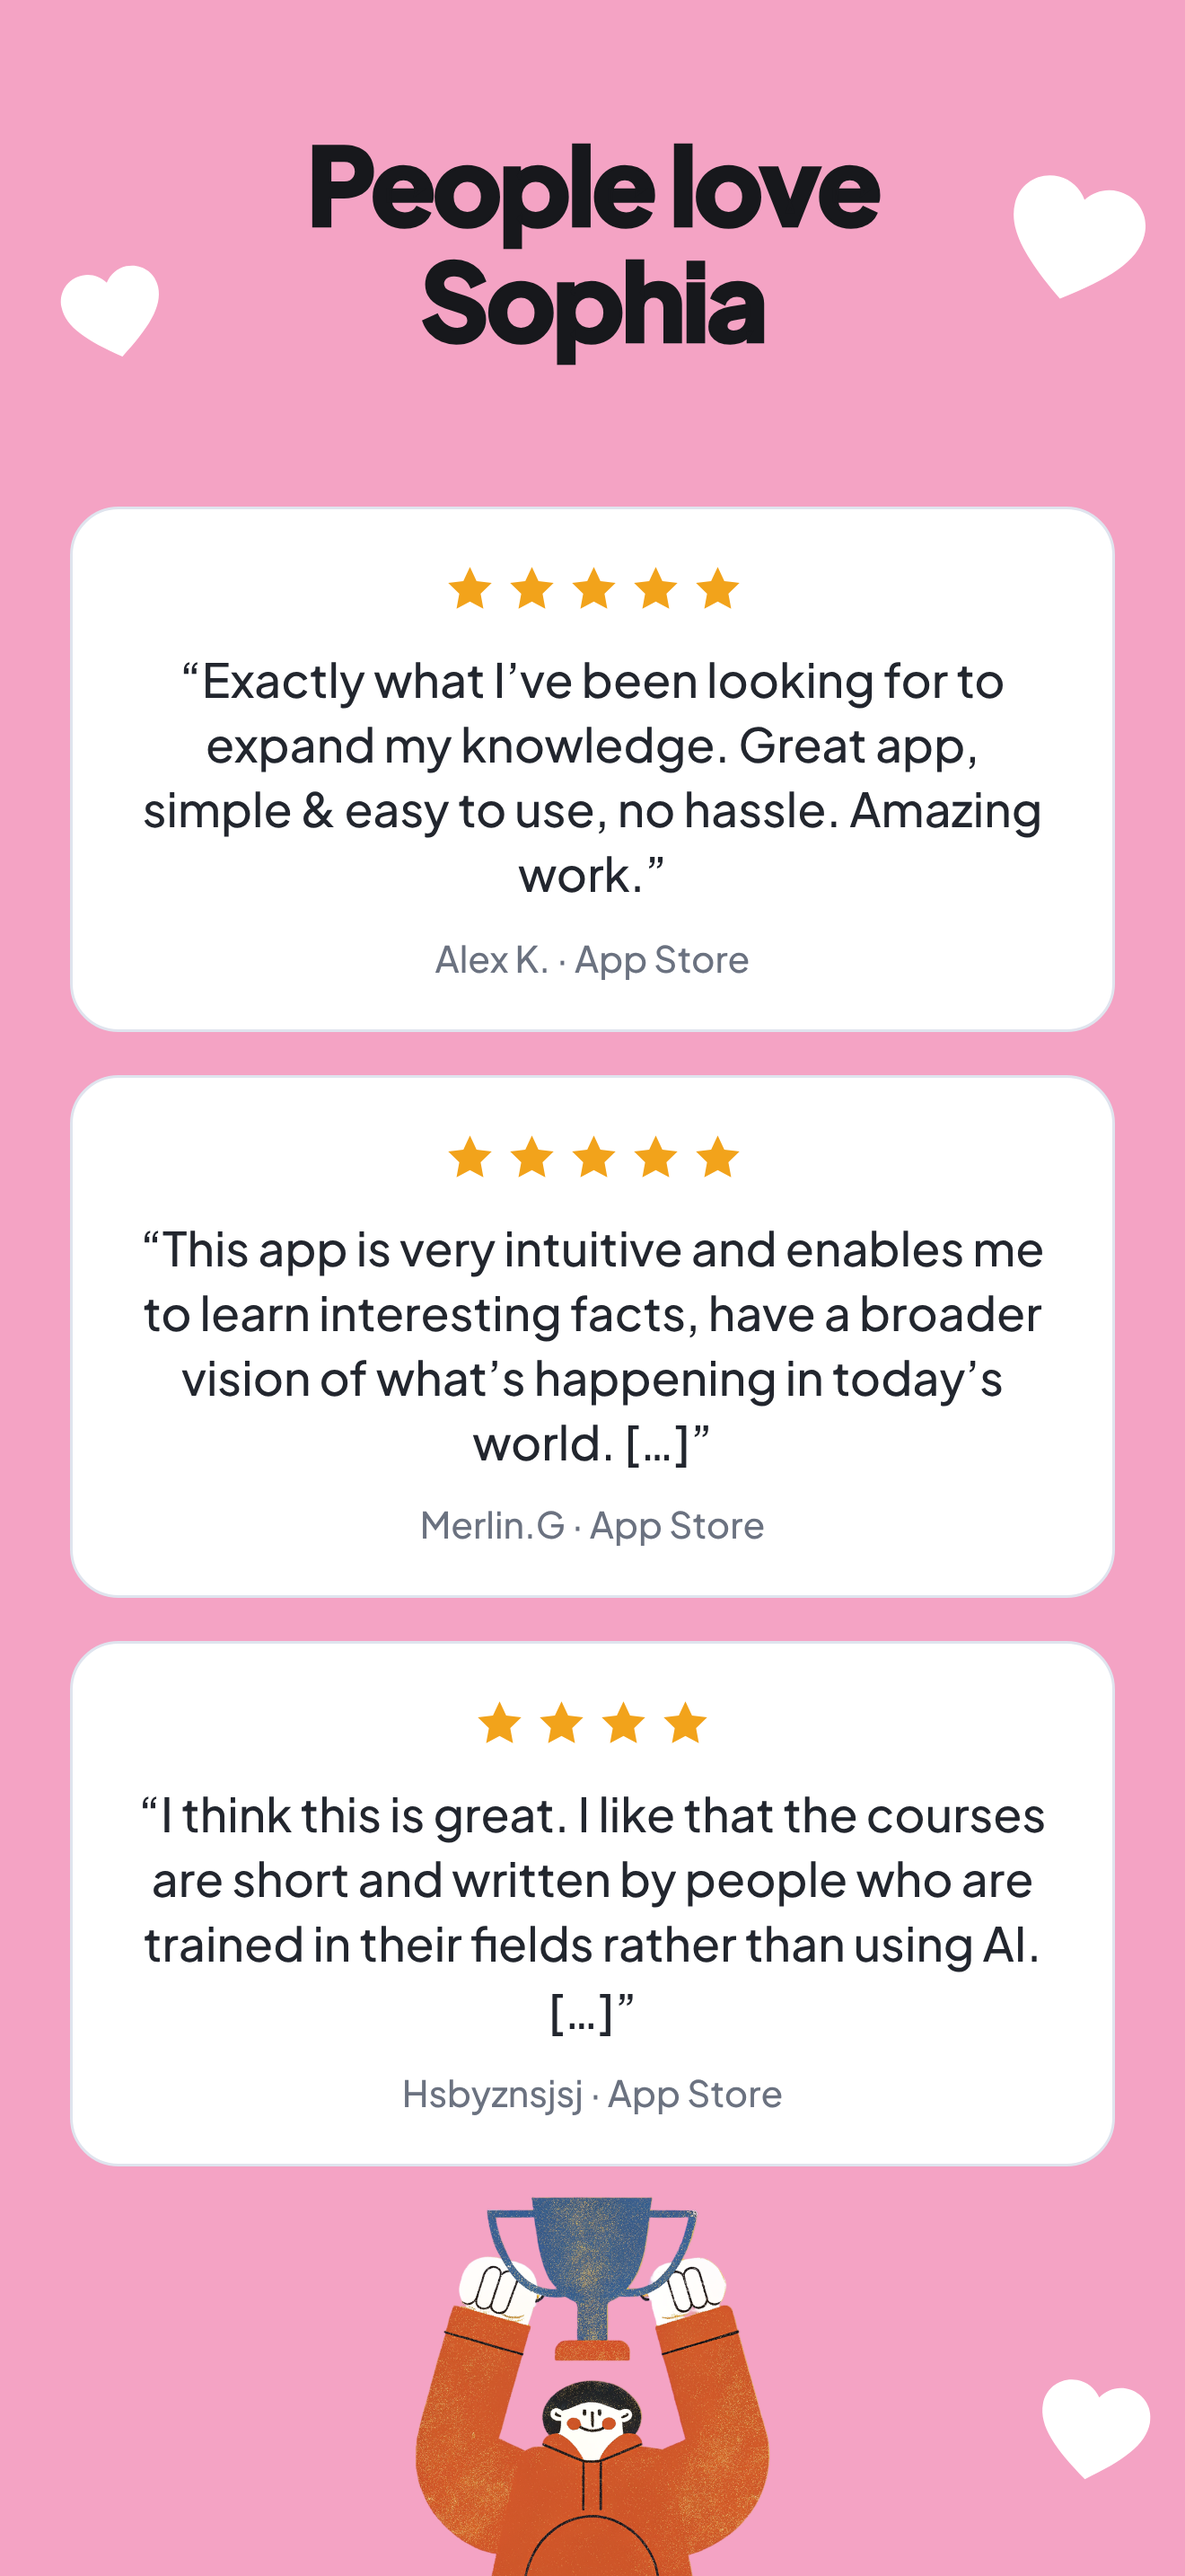
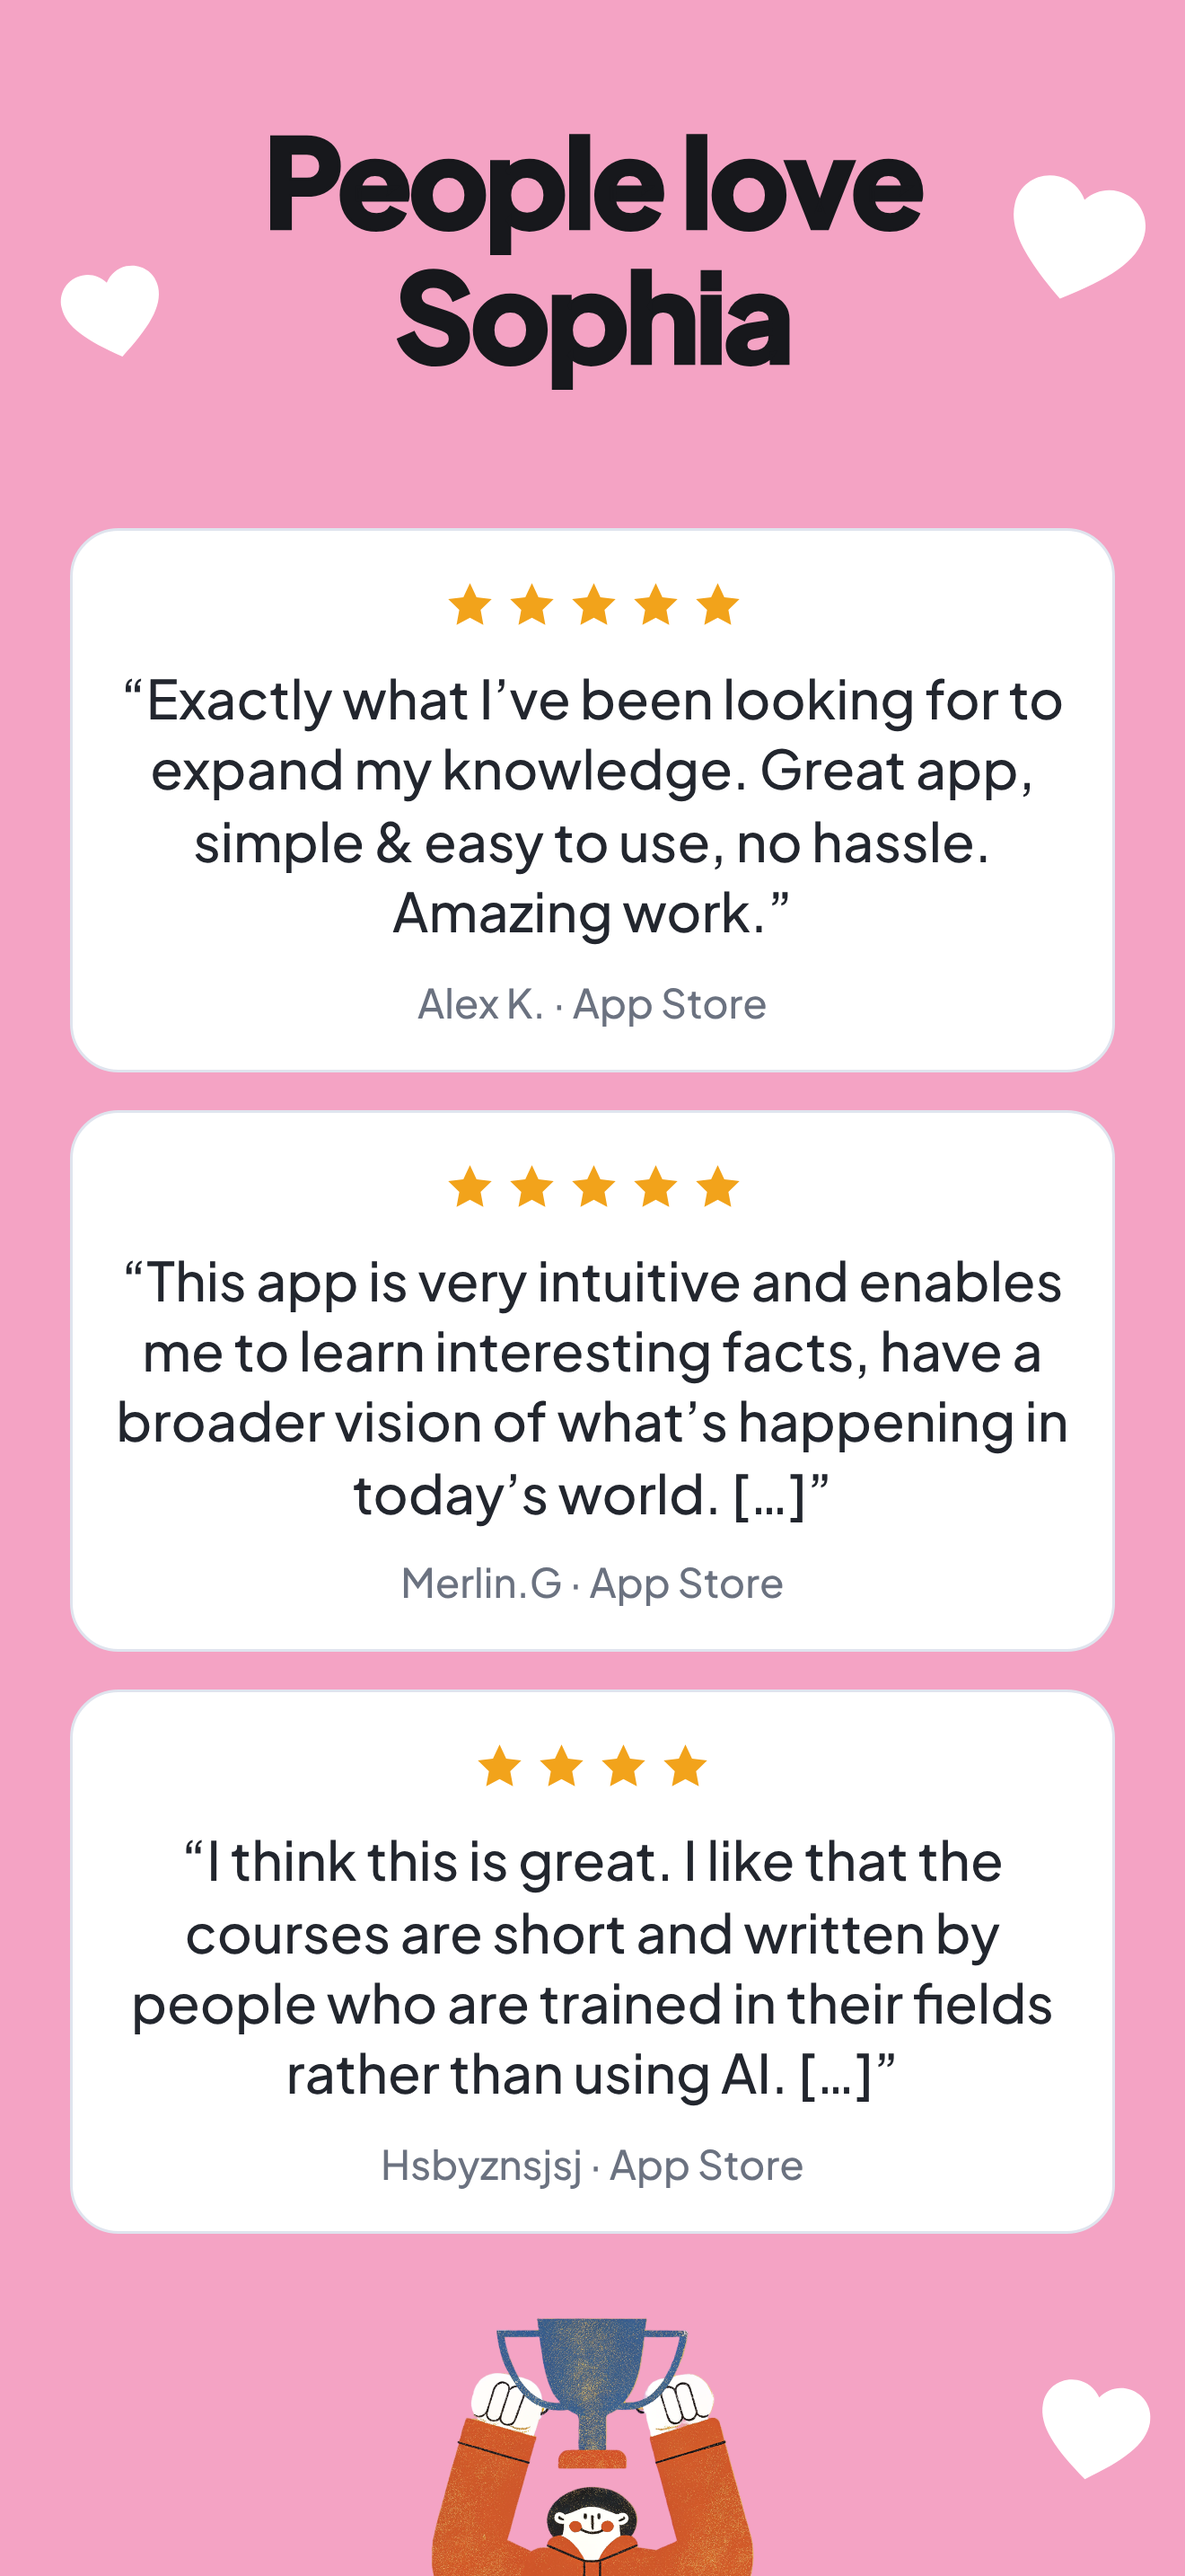
App Store : deux propositions de header, texte des captures agrandi
Header de fiche produit en 3840 x 1646 (creme avec le duo avant / apres,
bleu avec les objets illustres). Titres, sous-titres, avis et noms des
auteurs plus grands sur les trois series anglaises.

Claude-Session: https://claude.ai/code/session_01Yb4eBsmKHAU4mkJzSv6usd

Changed region(s): [[0.0621, 0.1862, 0.9629, 1.0], [0.2174, 0.031, 0.7765, 0.1552]]

diff --git a/appstore/screenshots/src/header.html b/appstore/screenshots/src/header.html
@@ -1,0 +1,58 @@
+<!doctype html>
+<html lang="en">
+<head>
+<meta charset="utf-8">
+<title>Sophia — App Store product page header</title>
+<style>
+/* Product page header, 21:9. Laid out at 1920 x 823 and rendered at 2x = 3840 x 1646.
+   The phone shows roughly the middle 3:2 of it, under the status bar and the back / share
+   buttons, so everything that matters sits in the centre and in the lower two thirds; the far
+   left and right only carry decoration. */
+* { box-sizing: border-box; }
+html, body { margin: 0; }
+body { width: 1920px; height: 823px; overflow: hidden; position: relative; background: var(--bg); }
+body.cream { --bg: #fef5e9; --star1: #f2b134; --star2: #f4a3c4; }
+body.blue { --bg: #2e62c4; --star1: #fef5e9; --star2: #f2b134; }
+.safe { position: absolute; left: 343px; width: 1234px; top: 0; bottom: 0; outline: 2px dashed rgba(255, 0, 80, 0.7); display: none; z-index: 9; }
+body.guide .safe { display: block; }
+.logo { position: absolute; left: 50%; top: 318px; height: 176px; transform: translateX(-50%); z-index: 3; }
+.floor { position: absolute; left: 0; right: 0; bottom: 0; height: 46px; background: #1e8e73; }
+img.p { position: absolute; z-index: 2; transform-origin: 50% 100%; }
+svg.s { position: absolute; z-index: 1; }
+</style>
+</head>
+<body>
+<div class="safe"></div>
+<script>
+  const v = new URLSearchParams(location.search).get("v") || "cream";
+  document.body.className = v + (location.hash === "#guide" ? " guide" : "");
+  const add = (html) => document.body.insertAdjacentHTML("beforeend", html);
+  const person = (name, x, bottom, h, r = 0, flip = false) =>
+    add(`<img class="p" src="people/${name}.png" style="height:${h}px;left:${x}px;bottom:${bottom}px;transform:translateX(-50%) rotate(${r}deg) scaleX(${flip ? -1 : 1})">`);
+  const star = (x, y, size, c) =>
+    add(`<svg class="s" width="${size}" height="${size}" viewBox="0 0 24 24" style="left:${x}px;top:${y}px"><path fill="var(--star${c})" d="M12 0c1 7 4 10 12 12-8 2-11 5-12 12-1-7-4-10-12-12 8-2 11-5 12-12Z"/></svg>`);
+  if (v === "cream") {
+    add(`<img class="logo" src="../../../web/public/brand/sophia-logo.png">`);
+    add(`<div class="floor"></div>`);
+    person("boy_before", 520, 0, 330);
+    person("girl_after", 1400, 22, 300);
+    person("prop_portrait", 150, 330, 330, -8);
+    person("prop_globe", 250, 40, 230, 6);
+    person("prop_rocket", 1760, 380, 330, 14);
+    person("prop_saturn", 1700, 90, 170, -10);
+    [[700, 250, 38, 1], [1210, 232, 30, 2], [930, 640, 30, 2], [1130, 610, 24, 1], [430, 250, 26, 2], [1500, 250, 30, 1], [60, 120, 30, 1], [1870, 300, 26, 2]].forEach((a) => star(...a));
+  } else {
+    add(`<img class="logo" src="../../../ios/Sophia/Assets.xcassets/logo_white.imageset/logo_white.png" style="top:330px;height:150px">`);
+    person("prop_portrait", 470, 150, 300, -9);
+    person("prop_mask", 640, 60, 110, -6);
+    person("prop_rocket", 1450, 250, 290, 14);
+    person("prop_globe", 1320, 20, 210, 8);
+    person("prop_bust", 150, 250, 340, 6);
+    person("prop_telescope", 240, 20, 220, -4);
+    person("prop_saturn", 1760, 480, 200, -12);
+    person("prop_amphora", 1720, 40, 300, -7);
+    [[760, 240, 40, 1], [1150, 250, 30, 2], [900, 620, 30, 2], [1080, 600, 26, 1], [1250, 160, 24, 1], [690, 560, 22, 1], [1560, 620, 26, 2]].forEach((a) => star(...a));
+  }
+</script>
+</body>
+</html>

diff --git a/appstore/screenshots/src/pano.html b/appstore/screenshots/src/pano.html
@@ -27,13 +27,18 @@ body { height: 956px; overflow: hidden; position: relative; font-family: "Plus J
 .text.center p { margin-top: 8px; font-weight: 400; }
 /* Sets with `titles: "loud"`: bigger, heavier headlines (800 is the font's heaviest cut, so a
    hairline stroke in the text colour thickens it further). */
-body.loud .text.center { top: 46px; left: 18px; right: 18px; }
-body.loud .text.center h1 { font-size: 40px; line-height: 1.08; letter-spacing: -0.035em; -webkit-text-stroke: 0.9px currentColor; }
+body.loud .text.center { top: 42px; left: 14px; right: 14px; }
+body.loud .text.center h1 { font-size: 46px; line-height: 1.08; letter-spacing: -0.035em; -webkit-text-stroke: 0.9px currentColor; }
 body.loud .text.center h1 b { font-size: 1.28em; line-height: 1; }
-body.loud .text.center p { margin-top: 10px; font-size: 19px; font-weight: 500; }
-body.loud .bubble { font-size: 37px; line-height: 1.1; -webkit-text-stroke: 0.8px currentColor; padding: 20px 26px 24px; }
-body.loud .reviews { top: 188px; }
-body.loud .profs { top: 206px; }
+body.loud .text.center p { margin-top: 10px; font-size: 22px; line-height: 1.22; font-weight: 500; text-wrap: balance; }
+body.loud .bubble { font-size: 43px; line-height: 1.1; -webkit-text-stroke: 0.8px currentColor; padding: 20px 26px 24px; }
+body.loud .reviews { top: 196px; gap: 14px; }
+body.loud .review { padding: 18px 16px 16px; }
+body.loud .review q { font-size: 20px; line-height: 1.32; }
+body.loud .review .who { font-size: 15px; }
+body.loud .profs { top: 228px; }
+body.loud .prof .n { font-size: 20.5px; }
+body.loud .prof .c { font-size: 16px; }
 .text.center h1 b { font-size: 1.55em; line-height: 0.9; letter-spacing: -0.04em; }
 /* Hero of the "vitrine" set: big logo and a speech bubble */
 .logo.big { left: 36px; top: 392px; height: 66px; }
@@ -99,7 +104,7 @@ body.loud .profs { top: 206px; }
     if (p.text) { const [h, sub] = T[p.text]; html += `<div class="text ${p.cls || ""}"><h1>${h}</h1>${sub ? `<p>${sub}</p>` : ""}</div>`; }
     if (p.bubble) html += `<div class="bubble">${T[p.bubble][0]}</div>`;
     (p.grid || []).forEach((row, r) => row.forEach((f, c) => {
-      html += `<img class="tile" src="../../../ios/Sophia/CourseImages/${f}.jpg" style="left:${c * 166 - (r % 2 ? 98 : 22)}px; top:${(V.titles ? 196 : 178) + r * 166}px">`;
+      html += `<img class="tile" src="../../../ios/Sophia/CourseImages/${f}.jpg" style="left:${c * 166 - (r % 2 ? 98 : 22)}px; top:${(V.titles ? 212 : 178) + r * 166}px">`;
     }));
     if (p.profs) {
       const check = '<svg width="17" height="17" viewBox="0 0 24 24"><circle cx="12" cy="12" r="11" fill="#2e62c4"/><path d="M7 12.500l3.300 3.300L17 9" fill="none" stroke="#fff" stroke-width="2.600" stroke-linecap="round" stroke-linejoin="round"/></svg>';

diff --git a/appstore/screenshots/src/pano.js b/appstore/screenshots/src/pano.js
@@ -196,7 +196,7 @@ const PANOS = {
       { theme: "pale", text: "profs", cls: "center", profs: "authors" },
     ],
     phones: [["home", 1], ["reader", 2], ["quiz", 5], ["duels", 6], ["blocker", 7]].map(([s, i]) => ({
-      screen: s, cx: mid(i), cy: 232 + (956 * 0.78 + 21) / 2, s: 0.78,
+      screen: s, cx: mid(i), cy: 250 + (956 * 0.78 + 21) / 2, s: 0.78,
       frame: i === 1 ? "#cdd9f5" : "#2e62c4", band: i === 1 ? "#e9effb" : "#dbe5f8" })),
     people: [
       // opening panel: logo, bubble, and the before / after pair (a boy slumped over his phone, a girl reading)
@@ -204,7 +204,7 @@ const PANOS = {
       // the same green floor (the band in `extras`, the colour of the "before" drawing's own floor)
       { name: "boy_before", x: 112, b: 956, h: 232, z: 1 },
       { name: "girl_after", x: 322, b: 943, h: 216, z: 1 },
-      { name: "trophy", x: P(4) + 220, b: 1000, h: 185 },
+      { name: "trophy", x: P(4) + 220, b: 1030, h: 170 },
       { name: "idea", x: P(8) + 330, b: 990, h: 240, flip: true },
       { name: "books", x: P(8) + 96, b: 975, h: 235 },
     ],

diff --git a/appstore/screenshots/README.md b/appstore/screenshots/README.md
@@ -69,3 +69,11 @@ Two colour variants of the English set render with `node render-pano.cjs showcas
 colour on almost every panel) and `node render-pano.cjs showcase-trio` (cream, blue and pink in
 rotation); the content is the same. Their panel colours are the two lists at the end of
 `src/pano.js`.
+
+## Product page header (`header/`)
+
+`node render-header.cjs` renders two proposals at 3840 x 1646 (21:9) from `src/header.html`:
+`header-cream.png` (colour logo, the before / after pair) and `header-blue.png` (white logo,
+illustrated objects). The logo and the main figures stay in the middle 3:2, which is roughly
+what a phone shows; check the exact size and crop against Apple's current specifications and
+the App Store Connect preview before uploading.
